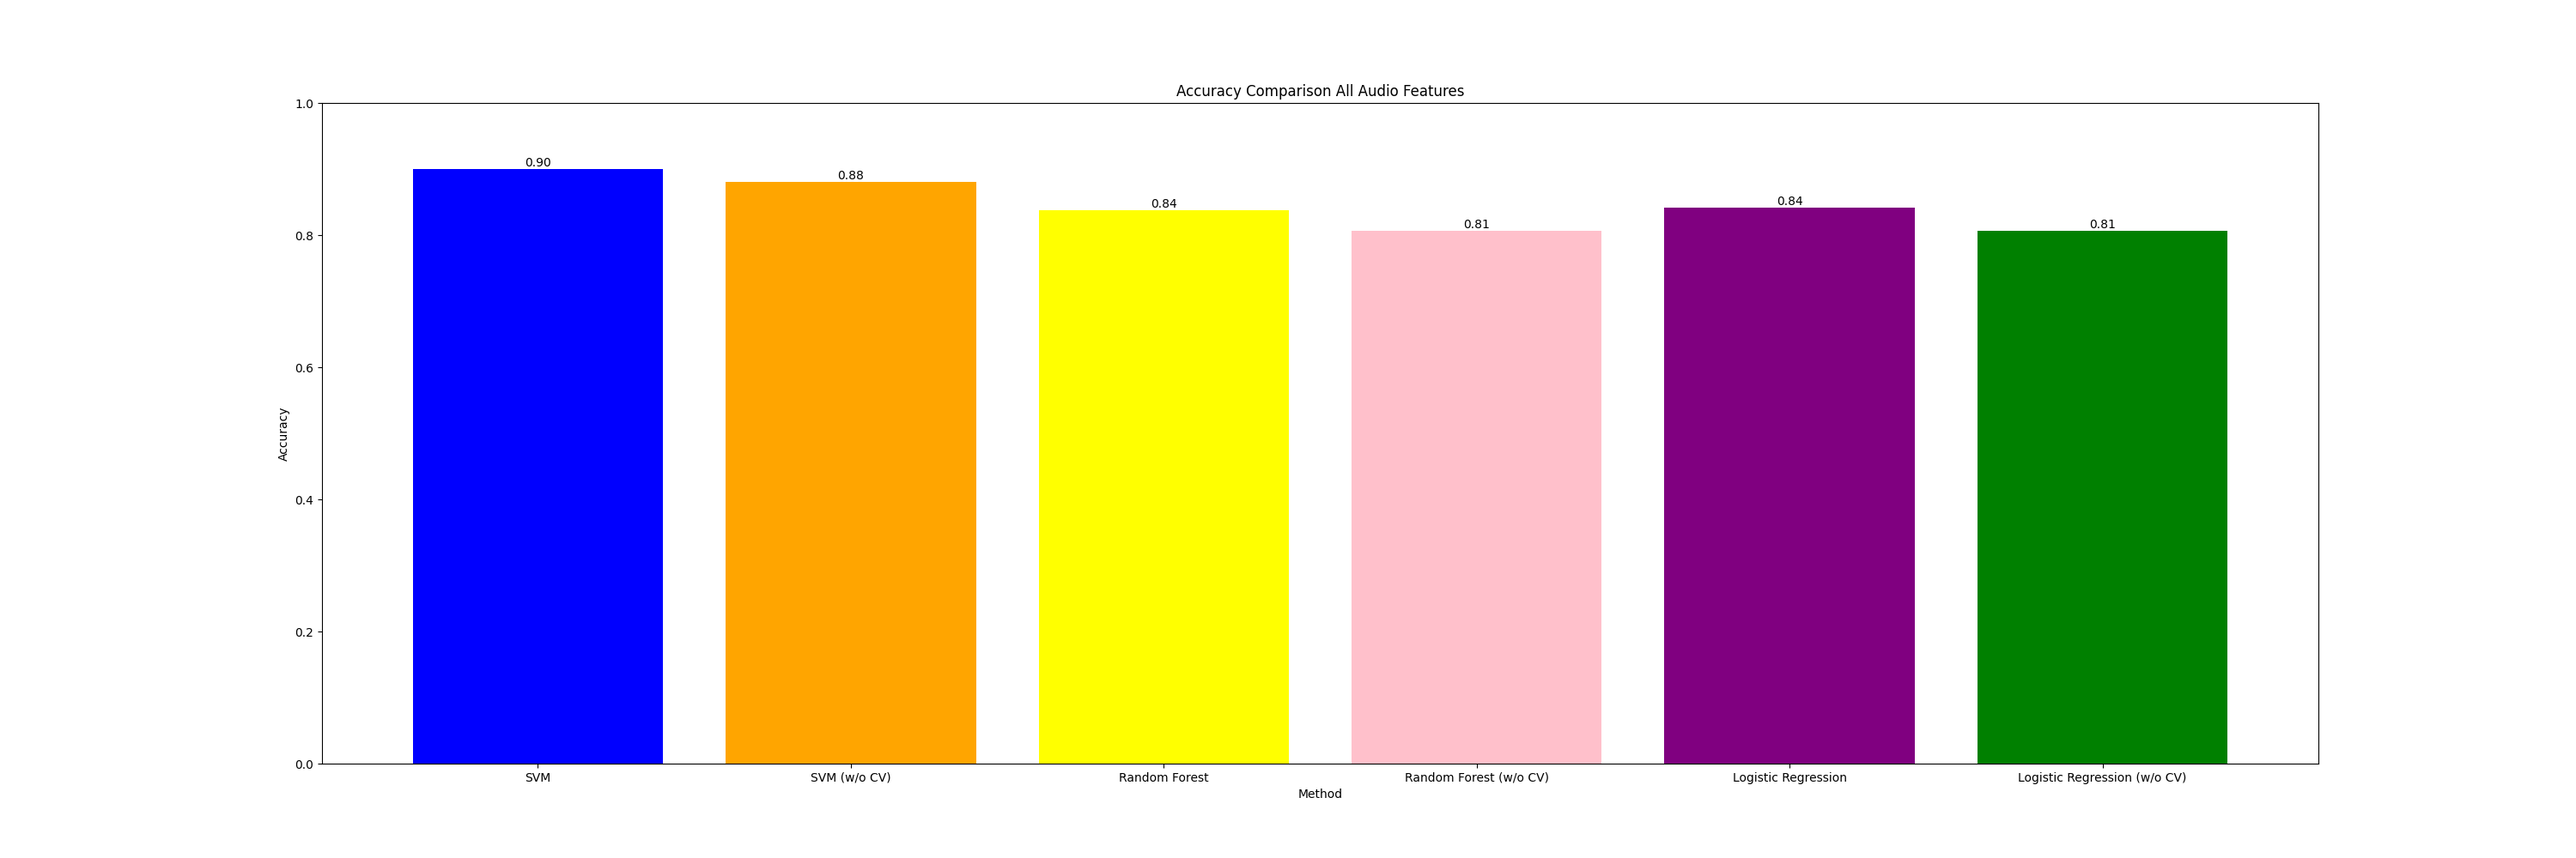
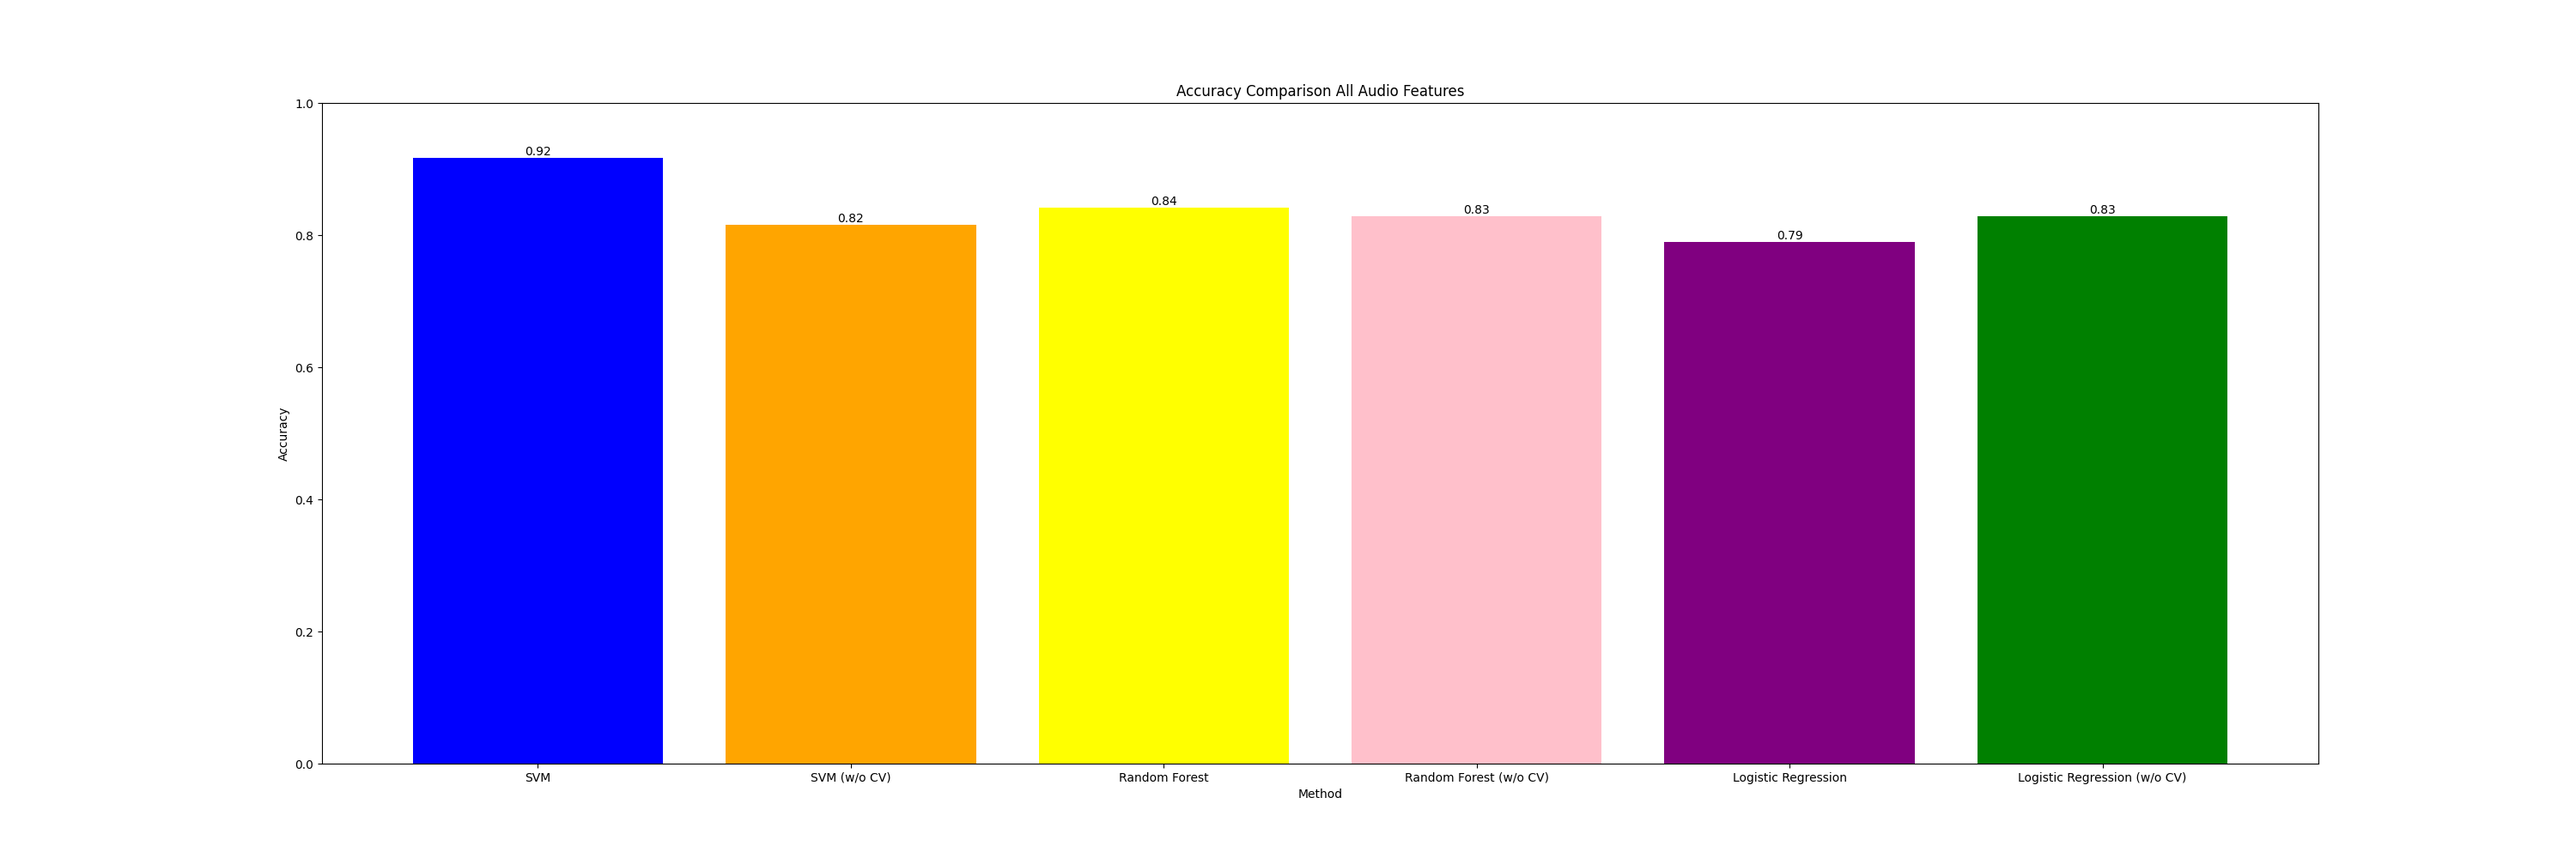
trying to implement NN

Changed region(s): [[0.155, 0.155, 0.403, 0.279], [0.527, 0.217, 0.868, 0.279], [0.434, 0.217, 0.465, 0.248]]

diff --git a/ANN.py b/ANN.py
@@ -1,0 +1,239 @@
+'''
+Rachael Chertok and Julia Sober
+Audio Machine Learning for Rain on Snow Detection
+
+In this file, the following features
+Autocorrelation Coefficient (ACC), Zero Crossing Rate (ZCR), Temporal Entropy (Ht), Spectral Entropy (Hf),
+Acoustic Complexity Index (ACI), Spectral Cover (SC)
+
+TODO: Add Background Noise features (BgN)
+
+The following models are used: Support Vector Machine (SVM), Random Forests (RF), XGBoost (XGB), and Logistic Regression (LR)
+
+TODO: Try different hyperparams for RF etc.
+
+Feature importance is used to determine which audio features add to the model
+TODO: Implement feature importance
+'''
+
+import librosa
+import librosa.display
+import librosa.feature
+import matplotlib.pyplot as plt
+import numpy as np
+import os
+import pandas as pd
+from sklearn.metrics import accuracy_score
+from sklearn.model_selection import train_test_split
+import statsmodels.api as sm
+import tensorflow as tf
+from tensorflow import keras
+from keras import layers
+from tensorflow.keras.layers import Dense, Flatten
+from keras import Sequential
+from keras import models
+from keras import optimizers
+import maad
+from maad.features import temporal_entropy
+from maad.features import spectral_entropy
+import scipy
+from scipy import signal
+
+# import xgboost as xgb
+from sklearn.ensemble import GradientBoostingClassifier
+
+
+def main():
+    # --------------Extracting audio features for each category of audio samples-------------------------------
+    # light_rain, medium_rain, etc. will contain all of the audio features, concatenated, after the function returns
+    light_rain_features = wav_to_audio_features("microphone-sampling/TestingSamples/lightShower/")
+    # print(light_rain_features.shape)
+    medium_rain_features = wav_to_audio_features("microphone-sampling/TestingSamples/mediumShower/")
+    # print(medium_rain_features.shape)
+    heavy_couscous_features = wav_to_audio_features("microphone-sampling/TestingSamples/heavyCouscousHail/")
+    # print(heavy_couscous_features.shape)
+    light_couscous_features = wav_to_audio_features("microphone-sampling/TestingSamples/lightCouscousHail/")
+    # print(light_couscous_features.shape)
+    mason_rain_features = wav_to_audio_features("microphone-sampling/TestingSamples/MasonJarRain/")
+    # print(mason_rain_features.shape)
+    nothing_features = wav_to_audio_features("microphone-sampling/TestingSamples/Nothing/")
+    # print(nothing_features.shape)
+    watering_can_features = wav_to_audio_features("microphone-sampling/TestingSamples/WateringCan/")
+    # print(watering_can_features.shape)
+    real_snow_features = wav_to_audio_features("microphone-sampling/TestingSamples/RealSnow/")
+
+    # --------------------Create Labels for Light, Medium, Heavy, etc.-------------------------------------
+    light_rain_labels = np.full(len(light_rain_features), 0)
+    med_rain_labels = np.full(len(medium_rain_features), 1)
+    heavy_couscous_labels = np.full(len(heavy_couscous_features), 2)
+    light_couscous_labels = np.full(len(light_couscous_features), 3)
+    mason_rain_labels = np.full(len(mason_rain_features), 4)
+    nothing_labels = np.full(len(nothing_features), 5)
+    watering_can_labels = np.full(len(watering_can_features), 6)
+    real_snow_labels = np.full(len(real_snow_features), 7)
+
+    # ----------------------Concatenating the features and labels into X (features) and Y (labels)----------------
+    # Concatenate together the 8 NumPy arrays into one array, which will be the features array
+    X = np.concatenate([light_rain_features, medium_rain_features, heavy_couscous_features,
+                        light_couscous_features, mason_rain_features, nothing_features, watering_can_features,
+                        real_snow_features], axis=0)
+    # Concatenate together the 8 NumPy LABEL arrays into one array, which will be the target array
+    Y = np.concatenate(
+        [light_rain_labels, med_rain_labels, heavy_couscous_labels, light_couscous_labels,
+         mason_rain_labels, nothing_labels, watering_can_labels, real_snow_labels], axis=0)
+    df = pd.DataFrame(X)
+    df['target'] = Y
+
+    # ------------------------------------Run the models-------------------------------------------------------
+    history = run_models(X, Y)
+    plot(history)
+
+def plot(history):
+    plt.figure(figsize=(30, 10))
+    plt.plot(history.history['accuracy'], label="acc")
+    plt.plot(history.history['val_accuracy'], label="val_acc")
+    plt.legend()
+    plt.savefig('images/ANN_Graph.png')
+
+def wav_to_audio_features(folder_path):
+    ACC_list = []
+    ZCR_list = []
+    Ht_list = []
+    Hf_list = []
+    ACI_list = []
+    SC_list = []
+    # os.listdir gets all files in the specified directory
+    for filename in os.listdir(folder_path):
+        # Librosa/File setup
+        full_path = os.path.join(folder_path, filename)
+        x, sr = librosa.load(full_path)
+
+        # TODO: Try maad.sound.load for Ht, Hf, ACI and SC?? See if that makes a difference??
+
+        # Get a spectrogram to use as the input to the spectral_entropy, ACI, and spectral cover functions
+        # f is the array of sample frequencies
+        # t is the array of segment times
+        # sxx is a spectrogram of x (the audio signal, originally in the time domain
+        f, t, sxx = scipy.signal.spectrogram(x, fs=sr)
+
+        # Extracting Auto Correlation Coefficient
+        acc = extract_ACC(x)
+        ACC_list.append(acc)
+
+        # Extracting Zero Crossing Rate
+        zcr = extract_ZCR(x)
+        ZCR_list.append(zcr)
+
+        # Extracting Temporal Entropy (Ht)
+        Ht = extract_Ht(x)
+        Ht_list.append([Ht])
+
+        # Extract Spectral Entropy (Hf)
+        # TODO: Maybe try power spectrum instead? See if you can get it working
+        # Need to provide a spectrogram (we will use a PSD (power spectral density), as recommended by the spectral_entropy function)
+        # pxx, frequencies = plt.psd(x, sr)
+
+        Hf = extract_Hf(sxx, f)
+        Hf_list.append([Hf])
+
+        # -------------Acoustic Complexity Index (ACI)--------------------
+        # Use sxx from the spectrogram
+        ACI = extract_ACI(sxx)
+        ACI_list.append([ACI])
+
+        # -------------Spectral Cover (SC)---------------------------------
+        # Using the maad spectrogram for SC to get the ext variable,
+        # to be able to get the spectrogram with no noise.
+        # TODO: Should spectral entropy also use maad.sound.spetrogram? Try interchanging theses
+
+        SC = extract_SC(x, sr)
+        SC_list.append(SC)
+
+    # Convert all lists into arrays to return and be used by
+    ACC_array = np.array(ACC_list)
+    ZCR_array = np.array(ZCR_list)
+    Ht_array = np.array(Ht_list)
+    Hf_array = np.array(Hf_list)
+    ACI_array = np.array(ACI_list)
+    SC_array = np.array(SC_list)
+
+    combined_array = np.concatenate((ACC_array, ZCR_array, Ht_array, Hf_array, ACI_array, SC_array), axis=1)
+    return combined_array
+
+
+def extract_ACC(audio_signal):
+    return sm.tsa.acf(audio_signal, nlags=2000)
+
+
+def extract_ZCR(audio_signal):
+    zero_crossings = librosa.feature.zero_crossing_rate(audio_signal, pad=False)
+    # pads zcr array with 0's so we can concatenate it with acc
+    fixed_length_zcr = librosa.util.fix_length(zero_crossings[0], size=1000, mode='edge')
+    return fixed_length_zcr
+
+
+def extract_Ht(audio_signal):
+    return maad.features.temporal_entropy(audio_signal)
+
+
+def extract_Hf(spectrogram, frequency_samples):
+    # It seems like all of the parameters need to be listed to get the correct output
+    # Use EAS because that is the Entropy of Average SpectruM
+    EAS, ECU, ECV, EPS, EPS_KURT, EPS_SKEW = maad.features.spectral_entropy(spectrogram, frequency_samples)
+    # TODO: Should only EAS be used? Would it help if we also used the other outputs? Look into
+    return EAS
+
+
+def extract_ACI(spectrogram):
+    _, _, ACI = maad.features.acoustic_complexity_index(spectrogram)
+    return ACI
+
+
+def extract_SC(audio_signal, sampling_rate):
+    sxx_power, tn, fn, ext = maad.sound.spectrogram(audio_signal, sampling_rate)
+    sxx_no_noise = maad.sound.median_equalizer(sxx_power, display=True, extent=ext)
+    sxx_dB_no_noise = maad.util.power2dB(sxx_no_noise)
+    LFC, MFC, HFC = maad.features.spectral_cover(sxx_dB_no_noise, fn)
+    return [LFC, MFC, HFC]
+
+
+def run_models(X, Y):
+    # -------------------------Implementing Artificial Neural Network--------------------------------
+    xtrain, xtest, ytrain, ytest = train_test_split(X, Y, test_size=0.3, random_state=42)
+    xtrain, xval, ytrain, yval = train_test_split(xtrain, ytrain, test_size=0.2, random_state=0)
+    ytrain_1hot = tf.keras.utils.to_categorical(ytrain, num_classes=8)
+    yval_1hot = tf.keras.utils.to_categorical(yval, num_classes=8)
+    ytest_1hot = tf.keras.utils.to_categorical(ytest, num_classes=8)
+
+    layers = [
+        Flatten(),
+        # Hidden layer with 100 neurons and relu activation
+        Dense(100, activation="relu"),
+        # Hidden layer with 100 neurons and relu activation
+        Dense(100, activation="relu"),
+        # Hidden layer with 100 neurons and relu activation
+        Dense(100, activation="relu"),
+        # Hidden layer with 100 neurons and relu activation
+        Dense(100, activation="relu"),
+        # Hidden layer with 100 neurons and relu activation
+        Dense(100, activation="relu"),
+        # Hidden layer with 100 neurons and relu activation
+        Dense(100, activation="relu"),
+        # Output layer with 8 neurons for 8 classes and softmax activation
+        Dense(8, activation="softmax")
+    ]
+
+    model = Sequential(layers)
+
+    model.compile(optimizer='SGD', loss="categorical_crossentropy", metrics=['accuracy'])
+
+    # This will start the training and save each epoch output in the history list.
+    history = model.fit(xtrain, ytrain_1hot, batch_size=16, epochs=50, validation_data=(xval, yval_1hot))
+    return history
+
+if __name__ == "__main__":
+    main()
+
+
+
+

diff --git a/All_Features_All_Models.PY b/All_Features_All_Models.PY
@@ -30,8 +30,17 @@ from sklearn.metrics import accuracy_score
 from sklearn.model_selection import LeaveOneOut, train_test_split
 from sklearn.svm import SVC
 from sklearn.linear_model import LogisticRegression
+from sklearn.neural_network import MLPClassifier
+from sklearn.datasets import make_classification
 from sklearn.inspection import permutation_importance
 import statsmodels.api as sm
+import tensorflow as tf
+from tensorflow import keras
+from tensorflow.keras.utils import to_categorical
+from tensorflow.keras.datasets import cifar10
+from tensorflow.keras.models import Sequential
+from tensorflow.keras.layers import Dense, Flatten
+from tensorflow.keras import optimizers
 import maad
 from maad.features import temporal_entropy
 from maad.features import spectral_entropy
@@ -58,6 +67,7 @@ def main():
     # print(nothing_features.shape)
     watering_can_features = wav_to_audio_features("microphone-sampling/TestingSamples/WateringCan/")
     # print(watering_can_features.shape)
+    real_snow_features = wav_to_audio_features("microphone-sampling/TestingSamples/RealSnow/")
 
     
     #--------------------Create Labels for Light, Medium, Heavy, etc.-------------------------------------
@@ -68,15 +78,16 @@ def main():
     mason_rain_labels = np.full(len(mason_rain_features), "mason jar rain")
     nothing_labels = np.full(len(nothing_features), "nothing")
     watering_can_labels = np.full(len(watering_can_features), "watering can")
+    real_snow_labels = np.full(len(real_snow_features), "real snow")
 
     #----------------------Concatenating the features and labels into X (features) and Y (labels)----------------
     # Concatenate together the 8 NumPy arrays into one array, which will be the features array
     X = np.concatenate([light_rain_features, medium_rain_features, heavy_couscous_features,
-                        light_couscous_features, mason_rain_features, nothing_features, watering_can_features], axis=0)
+                        light_couscous_features, mason_rain_features, nothing_features, watering_can_features, real_snow_features], axis=0)
     # Concatenate together the 8 NumPy LABEL arrays into one array, which will be the target array
     Y = np.concatenate(
         [light_rain_labels, med_rain_labels, heavy_couscous_labels, light_couscous_labels,
-         mason_rain_labels, nothing_labels, watering_can_labels], axis=0)
+         mason_rain_labels, nothing_labels, watering_can_labels, real_snow_labels], axis=0)
     df = pd.DataFrame(X)
     df['target'] = Y
 
@@ -264,32 +275,11 @@ def run_models(X, Y):
 
     '''
     #-------------------------IMPLEMENTING XgBoost--------------------------------------
-
-    print("In XGBOOST")
-    '''
-    loo = LeaveOneOut()
-    accuracies_xgboost = []
-
-    for train_index, test_index in loo.split(X):
-        X_train, X_test = X[train_index], X[test_index]
-        Y_train, Y_test = Y[train_index], Y[test_index]
-
-        #clf = xgb.XGBClassifier(n_estimators=100, random_state=42)
-        xgclf = GradientBoostingClassifier(n_estimators=100, random_state=42)
-        xgclf.fit(X_train, Y_train)
-        Y_pred = xgclf.predict(X_test)
-        accuracy = accuracy_score(Y_test, Y_pred)
-        accuracies_xgboost.append(accuracy)
-
-    mean_accuracy_XG_LOO = np.mean(accuracies_xgboost)
-    all_accuracies.append(mean_accuracy_XG_LOO)
-    print("Mean Accuracy (XGBoost): ", mean_accuracy_XG_LOO)
-    '''
     # XGBoost without leave one out
     X_train, X_test, Y_train, Y_test = train_test_split(X, Y, test_size=0.3, random_state=42)
-    xgclf2 = GradientBoostingClassifier(n_estimators=100, random_state=42)
-    xgclf2.fit(X_train, Y_train)
-    Y_pred = xgclf2.predict(X_test)
+    xgclf = GradientBoostingClassifier(n_estimators=100, random_state=42)
+    xgclf.fit(X_train, Y_train)
+    Y_pred = xgclf.predict(X_test)
     accuracy_XG = accuracy_score(Y_test, Y_pred)
     all_accuracies.append(accuracy_XG)
     print("Accuracy (XGBoost no LOO):", accuracy_XG)
@@ -303,42 +293,44 @@ def run_models(X, Y):
     # Convert the model to a native API model
     #model = xgb_classifier.get_booster()
 
-    '''
     #-------------------------Implementing Logistic Regression--------------------------------------
-    print("In Log Reg")
-    loo = LeaveOneOut()
-    accuracies_lr = []
-
-    #Logistic Regression Leave One Out
-    for train_index, test_index in loo.split(X):
-        X_train, X_test = X[train_index], X[test_index]
-        Y_train, Y_test = Y[train_index], Y[test_index]
-
-        lrclf = LogisticRegression(random_state=0, max_iter=100)
-        lrclf.fit(X_train, Y_train)
-        Y_pred = lrclf.predict(X_test)
-        accuracy = accuracy_score(Y_test, Y_pred)
-        accuracies_lr.append(accuracy)
-
-    mean_accuracy_LR_LOO = np.mean(accuracies_lr)
-    all_accuracies.append(mean_accuracy_LR_LOO)
-    print("Mean Accuracy (LR): ", mean_accuracy_LR_LOO)
-
     # Logistic Regression without leave one out
     X_train, X_test, Y_train, Y_test = train_test_split(X, Y, test_size=0.3, random_state=42)
-    lrclf2 = LogisticRegression(random_state=0, max_iter=100) #TODO: Change random_state?
-    lrclf2.fit(X_train, Y_train)
-    Y_pred = lrclf2.predict(X_test)
+    lrclf = LogisticRegression(random_state=0, max_iter=100) #TODO: Change random_state?
+    lrclf.fit(X_train, Y_train)
+    Y_pred = lrclf.predict(X_test)
     accuracy_LR = accuracy_score(Y_test, Y_pred)
     all_accuracies.append(accuracy_LR)
     print("Accuracy (LR no LOO):", accuracy_LR)
-    '''
+
+    # -------------------------Implementing Artificial Neural Network--------------------------------
+    xtrain, xtest, ytrain, ytest = train_test_split(X, Y, test_size=0.3, random_state=42)
+    xtrain, xval, ytrain, yval = train_test_split(xtrain, ytrain, test_size=0.2, random_state=0)
+    ytrain_1hot = tf.keras.utils.to_categorical(Y_train, num_classes=8)
+    yval_1hot = tf.keras.utils.to_categorical(yval, num_classes=8)
+    ytest_1hot = tf.keras.utils.to_categorical(ytest, num_classes=8)
+    layers = [
+        Flatten(input_shape=(32, 32, 3)),
+        # Hidden layer with 100 neurons and relu activation
+        Dense(100, activation="relu"),
+        # Output layer with 10 neurons for 10 classes and softmax activation
+        Dense(10, activation="softmax")
+    ]
+
+    model = Sequential(layers)
+
+    # refer to https://www.tensorflow.org/tutorials/keras/classification tutorial to check on how to use compile function
+    model.compile(optimizer='SGD', loss="categorical_crossentropy", metrics=['accuracy'])
+
+    # This will start the training and save each epoch output in the history list.
+    history = model.fit(xtrain, ytrain_1hot, batch_size=16, epochs=10, validation_data=(xval, yval_1hot))
+
     return all_accuracies
 
 def plot_accuracies(all_accuracies):
     #-------------------------Plotting accuracies---------------------------------------------------
     # Plotting accuracies
-    methods = ['SVM', 'SVM (w/o CV)', 'Random Forest', 'Random Forest (w/o CV)', 'Logistic Regression', 'Logistic Regression (w/o CV)']
+    methods = ['SVM', 'SVM (w/o CV)', 'Random Forest', 'Random Forest (w/o CV)', 'Logistic Regression (w/o CV)', 'XGBoost (w/o CV)']
     plt.figure(figsize=(30, 10))
     bars = plt.bar(methods, all_accuracies, color=['blue', 'orange', 'yellow', 'pink', 'purple', 'green'])
     plt.title('Accuracy Comparison All Audio Features')
